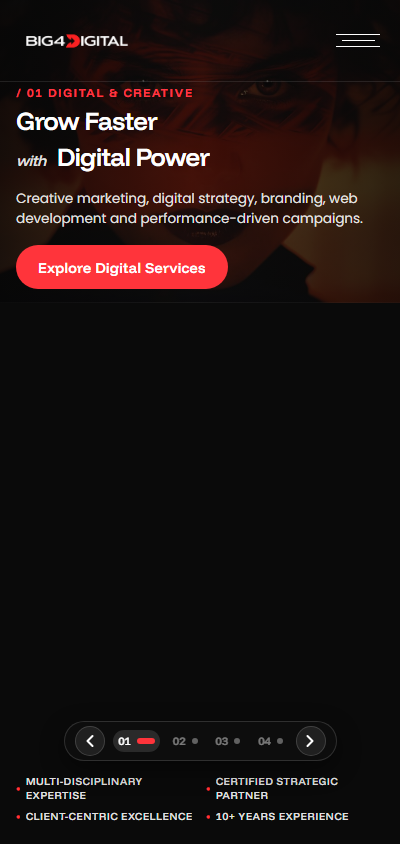
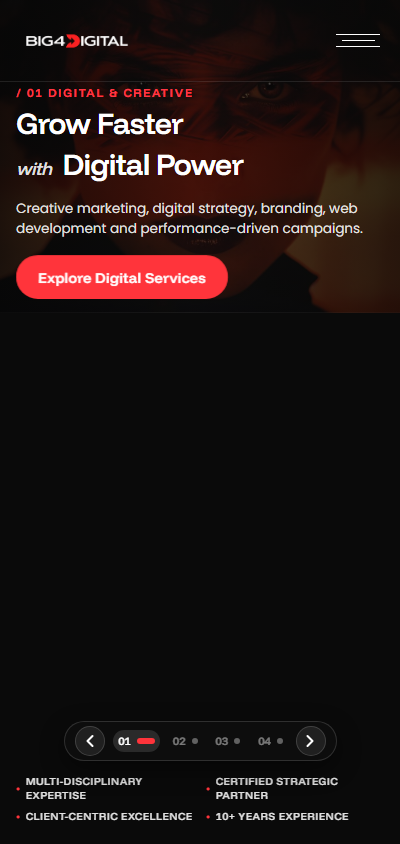
fix(hero): restore bold premium hero typography with concise slide copy on slides 2 & 4

diff --git a/css/style.css b/css/style.css
@@ -519,7 +519,7 @@ font-family: "Poppins", sans-serif;
     margin-bottom: 20px;
     color: #ff343b;
     font-family: "Funnel Display", sans-serif;
-    font-size: clamp(13px, 1.1vw, 17px);
+    font-size: clamp(14px, 1.25vw, 20px);
     line-height: 1.2;
     font-weight: 600;
     letter-spacing: 2px;
@@ -555,10 +555,10 @@ font-family: "Poppins", sans-serif;
     display: inline-block;
     color: #fff;
     font-family: "Funnel Display", sans-serif;
-    font-size: clamp(40px, 4.3vw, 70px);
-    line-height: 1.08;
+    font-size: clamp(48px, 5.5vw, 102px);
+    line-height: 1.0;
     font-weight: 600;
-    letter-spacing: -1.8px;
+    letter-spacing: -2.5px;
     white-space: normal;
     word-break: normal;
     overflow-wrap: break-word;
@@ -569,11 +569,11 @@ font-family: "Poppins", sans-serif;
     display: inline-block;
     color: rgba(255, 255, 255, 0.88);
     font-family: "Funnel Display", sans-serif;
-    font-size: clamp(22px, 2.3vw, 34px);
-    line-height: 1.08;
+    font-size: clamp(26px, 2.8vw, 50px);
+    line-height: 1.0;
     font-weight: 500;
     font-style: italic;
-    letter-spacing: -0.8px;
+    letter-spacing: -1px;
     align-self: baseline;
     white-space: nowrap;
     opacity: 1;
@@ -581,11 +581,11 @@ font-family: "Poppins", sans-serif;
 }
 @media (min-width: 1600px) {
     .heading-big {
-        font-size: 72px;
-        letter-spacing: -2px;
+        font-size: 104px;
+        letter-spacing: -3px;
     }
     .heading-small {
-        font-size: 36px;
+        font-size: 52px;
     }
 }
 /* ==========================================================
@@ -1134,11 +1134,11 @@ font-family: "Poppins", sans-serif;
         max-width: 1694px;
     }
     .heading-big {
-        font-size: 70px;
-        letter-spacing: -2px;
+        font-size: 104px;
+        letter-spacing: -3px;
     }
     .heading-small {
-        font-size: 34px;
+        font-size: 52px;
     }
     .menu-content {
         padding:
@@ -7373,7 +7373,7 @@ html.lenis, html.lenis body {
         margin-top: 4px !important;
     }
     .heading-big {
-        font-size: clamp(23px, 6.4vw, 30px) !important;
+        font-size: clamp(28px, 7.5vw, 38px) !important;
         line-height: 1.14 !important;
         letter-spacing: -0.8px !important;
         white-space: normal !important;
@@ -7381,7 +7381,7 @@ html.lenis, html.lenis body {
         overflow-wrap: break-word !important;
     }
     .heading-small {
-        font-size: clamp(15px, 3.8vw, 20px) !important;
+        font-size: clamp(18px, 4.5vw, 24px) !important;
         margin-bottom: 0 !important;
         margin-right: 5px !important;
         letter-spacing: -0.5px !important;
@@ -8945,11 +8945,11 @@ html.lenis, html.lenis body {
         gap: 16px;
     }
     .heading-big {
-        font-size: clamp(32px, 4vw, 42px);
-        letter-spacing: -1.2px;
+        font-size: clamp(40px, 4.8vw, 56px);
+        letter-spacing: -1.5px;
     }
     .heading-small {
-        font-size: clamp(18px, 2.2vw, 24px);
+        font-size: clamp(22px, 2.6vw, 30px);
     }
     .slide-right {
         padding-top: 0;
@@ -8992,10 +8992,10 @@ html.lenis, html.lenis body {
 /* Extra small mobile (320px - 360px) */
 @media (max-width: 360px) {
     .heading-big {
-        font-size: clamp(19px, 6.2vw, 22px) !important;
+        font-size: clamp(22px, 6.8vw, 26px) !important;
     }
     .heading-small {
-        font-size: 14px !important;
+        font-size: 16px !important;
     }
     .slide-container {
         width: calc(100% - 24px) !important;

diff --git a/index.html b/index.html
@@ -83,7 +83,7 @@
           with
          </span>
          <span class="heading-big">
-          Strategic Confidence
+          Confidence
          </span>
         </div>
        </div>
@@ -151,7 +151,7 @@
         </div>
         <div class="heading-row heading-row-two">
          <span class="heading-big">
-          Strengthen Organisations.
+          Strengthen Teams.
          </span>
         </div>
        </div>
